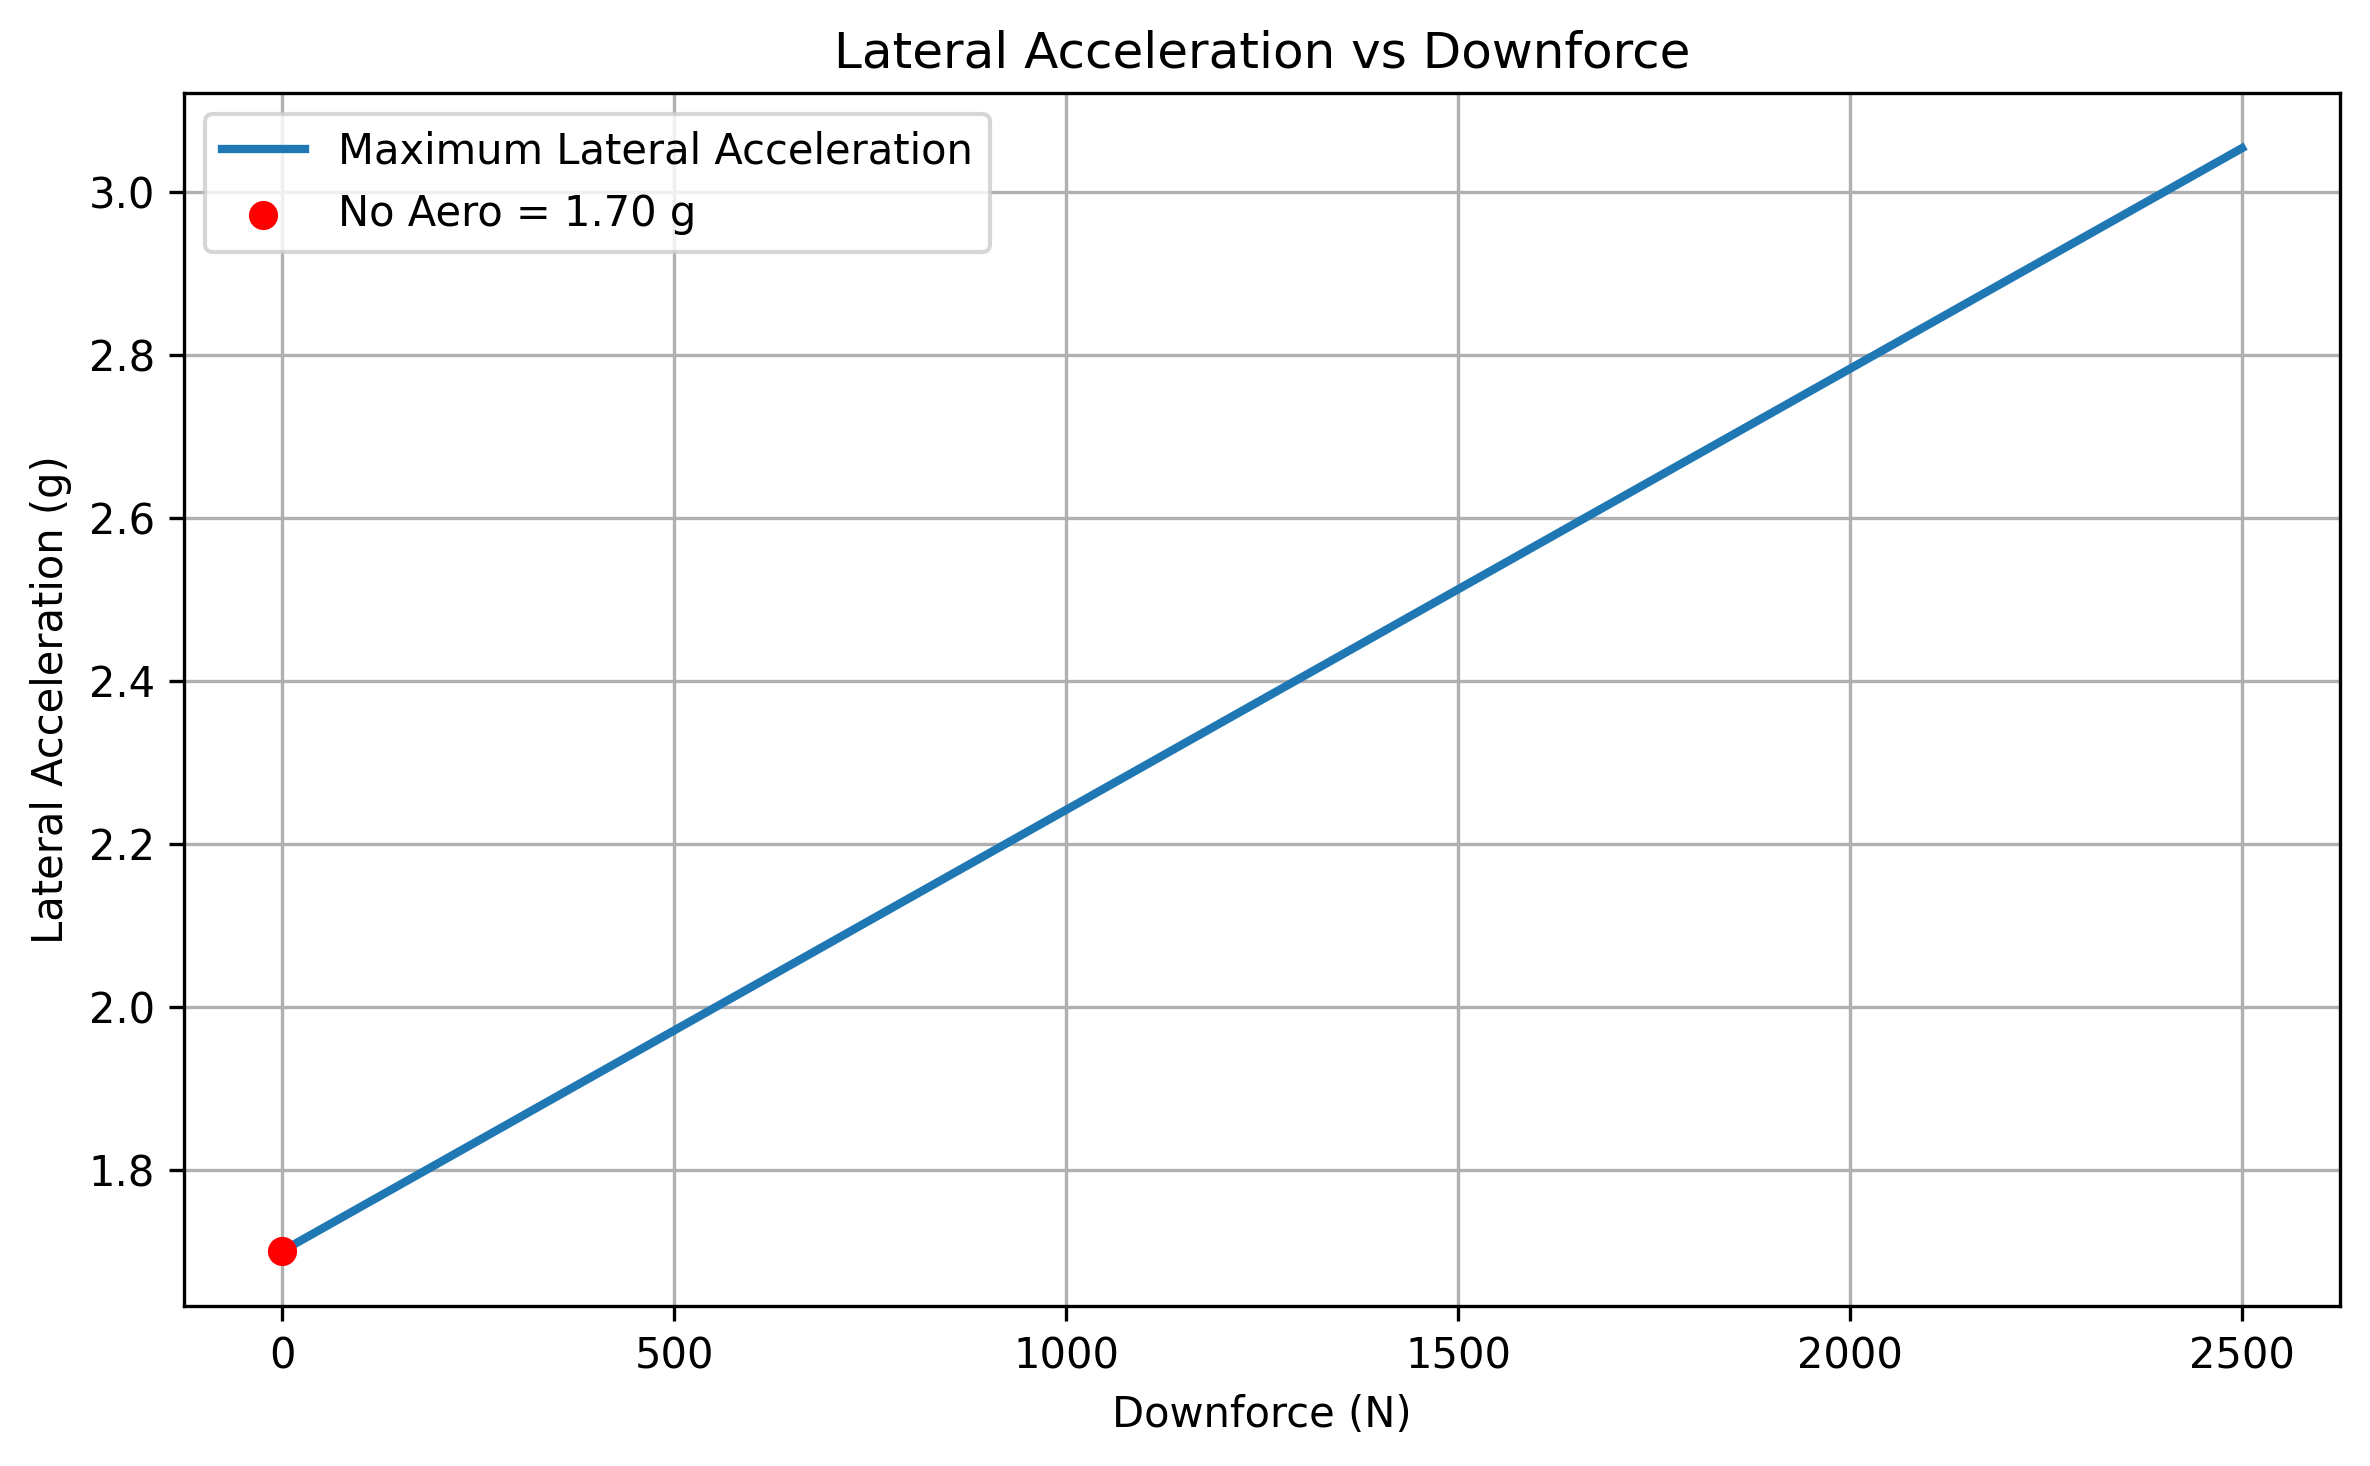
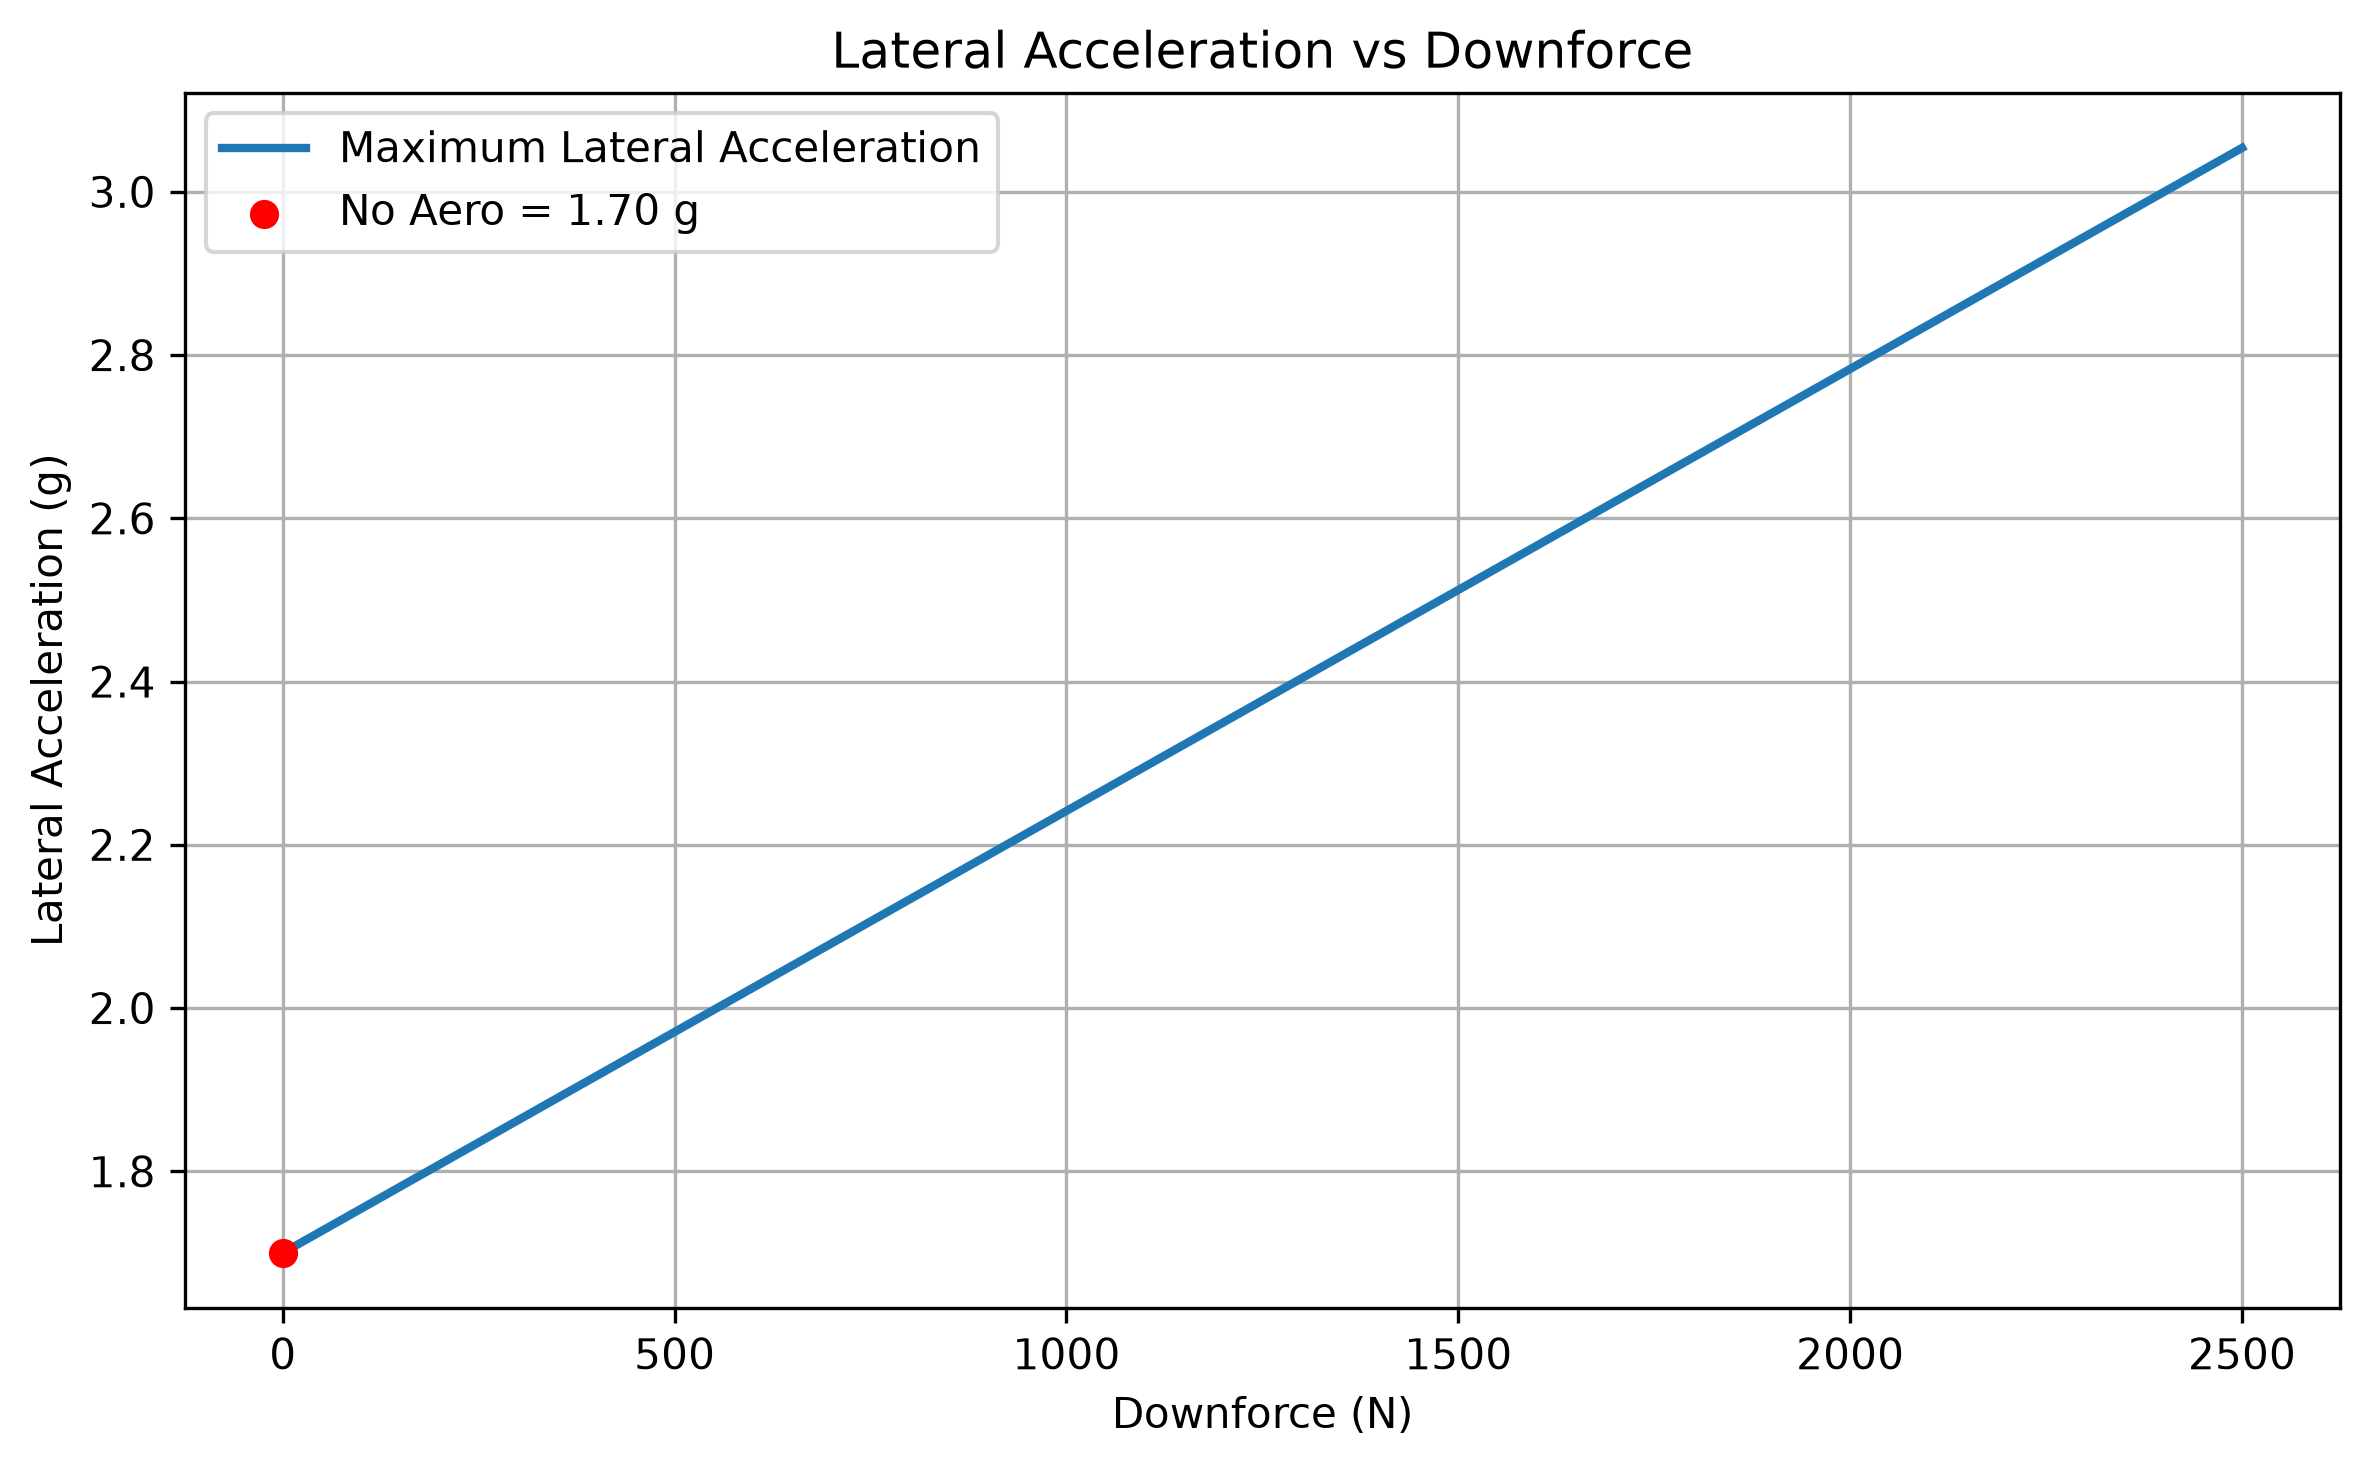
add tender

diff --git a/open/tender/tender/tender.py b/open/tender/tender/tender.py
@@ -1,30 +1,40 @@
 import numpy as np
 import matplotlib.pyplot as plt
+from pathlib import Path
+import sys
 import pandas as pd
+from scipy.optimize import root
+
+sys.path.append(str(Path(__file__).resolve().parent.parent.parent))
+
+from load_data import ParameterLoader
+
+param = ParameterLoader().load("data.xlsx")
+
 # ==========================================
 # 1. 車輛與懸吊參數設定 (依據你的描述設定)
 # ==========================================
-m_car = 320.0             # 車重 (kg)
+m_car = param.m            # 車重 (kg)
 g = 9.81                  # 重力加速度 (m/s^2)
-W_total = m_car * g       # 總車重 (N) ~ 3139.2 N
+W_total = m_car * g       # 總車重 (N)
 
 # Heave 剛性設定 (N/mm)
-k_main_heave = 140000/1000    # Main Heave 剛性
-k_tender_heave = 0.7 * k_main_heave # Tender Heave 剛性
+k_main_heave = param.K_heave_main/1000    # Main Heave 剛性
+tender_rate = param.tender_rate
+k_tender_heave = tender_rate * k_main_heave # Tender Heave 剛性
 
 # 串聯後 Heave 初段總剛性 (N/mm)
-k_total_heave = (k_main_heave * k_tender_heave) / (k_main_heave + k_tender_heave) # ~26.667 N/mm
+k_total_heave = (k_main_heave * k_tender_heave) / (k_main_heave + k_tender_heave) # N/mm
 
 # 車輛幾何參數 (用於 Pitch 計算)
-wheelbase = 1.530         # 軸距 L (m)
-h_cg = 0.30              # 重心高度 (m)
-front_weight_dist = 0.5  # 前軸重分配比例 (45%)
-anti_dive = 0.0          # 抗俯仰幾何比例 (20% 抗俯仰)
-
+wheelbase = param.L         # 軸距 L (m)
+h_cg = param.h_cog              # 重心高度 (m)
+front_weight_dist = param.lr/param.L  # 前軸重分配比例
+anti_dive = param.anti          # 抗俯仰幾何比
 # ==========================================
 # 計算 10% 空力下壓力量吃掉的總行程
 # ==========================================
-downforce_10pct = 0.1 * W_total # 10% 車重下壓力 (N)
+downforce_10pct = param.cp_k * W_total # 10% 車重下壓力 (N)
 
 # 此時 Tender 未壓滿，使用串聯總剛性 k_total_heave
 heave_stroke_10pct = downforce_10pct / k_total_heave
@@ -105,9 +115,6 @@ def series_force(x, k_main, k_tender, tender_max_stroke):
 
     return F, status
 
-from scipy.optimize import root
-
-
 def suspension_equilibrium(
     downforce,
     ax
@@ -164,7 +171,6 @@ def suspension_equilibrium(
 
 
     return xf,xr
-
 
 def calculate_heave_and_pitch(downforce_N, a_x_g):
 
@@ -241,7 +247,8 @@ def calculate_heave_and_pitch(downforce_N, a_x_g):
 
 
     if not sol.success:
-        print("Solver failed")
+        pass
+        #print("Solver failed")
 
 
     front_stroke, rear_stroke = sol.x
@@ -419,6 +426,14 @@ ax.grid(True)
 ax.legend(title="Downforce")
 
 plt.tight_layout()
+
+save_path_1 = Path(__file__).parent / "tender_heave_pitch_response.png"
+plt.savefig(
+    save_path_1,
+    dpi=300,
+    bbox_inches="tight"
+)
+
 plt.show()
 
 # ==========================================
@@ -452,4 +467,15 @@ plt.grid(True)
 plt.legend(title="Downforce")
 
 plt.tight_layout()
+
+save_path_2 = Path(__file__).parent / "tender_pitch_gradient.png"
+plt.savefig(
+    save_path_2,
+    dpi=300,
+    bbox_inches="tight"
+)
+
 plt.show()
+
+print(f"Figure saved to: {save_path_1}")
+print(f"Figure saved to: {save_path_2}")

diff --git a/open/tender/2_spring/2_spring.py b/open/tender/2_spring/2_spring.py
@@ -1,10 +1,18 @@
 import numpy as np
 import matplotlib.pyplot as plt
+from pathlib import Path
+import sys
+
+sys.path.append(str(Path(__file__).resolve().parent.parent.parent))
+
+from load_data import ParameterLoader
+
+param = ParameterLoader().load("data.xlsx")
 
 # ==========================
 # Main Spring
 # ==========================
-k_main = 30000  # N/m
+k_main = param.Ks  # N/m
 
 # Tender = 30~70% of Main
 ratio = np.linspace(0.3, 0.7, 100)
@@ -23,6 +31,14 @@ plt.xlabel("Tender Spring Stiffness (N/mm)")
 plt.ylabel("Equivalent Stiffness (N/mm)")
 plt.title("Series Spring Equivalent Stiffness")
 plt.grid(True)
+plt.tight_layout()
+
+save_path_1 = Path(__file__).parent / "series_spring_equivalent_stiffness.png"
+plt.savefig(
+    save_path_1,
+    dpi=300,
+    bbox_inches="tight"
+)
 
 # ==========================
 # Plot 2
@@ -34,5 +50,16 @@ plt.xlabel("Tender Stiffness (% of Main)")
 plt.ylabel("Equivalent Stiffness (% of Main)")
 plt.title("Equivalent Stiffness Ratio")
 plt.grid(True)
+plt.tight_layout()
+
+save_path_2 = Path(__file__).parent / "equivalent_stiffness_ratio.png"
+plt.savefig(
+    save_path_2,
+    dpi=300,
+    bbox_inches="tight"
+)
+
+print(f"Figure saved to: {save_path_1}")
+print(f"Figure saved to: {save_path_2}")
 
 plt.show()

diff --git a/open/tender/tender.md b/open/tender/tender.md
@@ -4,22 +4,15 @@ layout: base
 
 # Tender Spring 分析
 
-## 設計背景
-
-目前彈簧姿態限制以 $roll = 2^\circ$、$pitch = 1.5^\circ$ 作為設計目標，但其中約 $0.5^\circ$ roll 與 $0.35^\circ$ pitch 會由輪胎變形提供，因此實際由懸吊壓縮造成的姿態角不需要吃完整個角度需求。若將總行程完全用於姿態變化，最大約可造成 $2.26^\circ$ roll 或 $1.87^\circ$ pitch；也就是說在不考慮空力下壓的情況下，目前允許的極限 full roll / full pitch 約使用總行程的 $60\%$。
-
-由於輪胎剛性會與懸吊剛性串聯，實際 ride stiffness 會低於單純彈簧剛性，因此彈簧本體剛性必須比姿態限制直接推得的值更高。同時仍需確認簧上與簧下自然頻率之間保有足夠間隔，可避免輪胎 hop mode 與車身模態過度接近。
-
 ## [雙彈簧串聯剛性分析](2_spring/2_spring.md)
 
 > 計算 main spring 與 tender spring 串聯後的等效剛性，並觀察 tender 剛性比例對初段總剛性的影響。
 
-此分析用於建立 tender spring 選型的基本概念。當 tender spring 與 main spring 串聯時，初段等效剛性會低於任一單獨彈簧剛性，因此 tender 的剛性比例會直接影響懸吊初段支撐、低載荷行程與彈簧切換前的車身姿態。以目前偏保守的設定來看，tender spring 採用 main spring 的 $70\%$ 剛性時，串聯後 heave 剛性約為原 main spring 的 $40\%$，因此剛性切換前後會有明顯差距。
-
+建立 tender spring 選型的基本概念。當 tender spring 與 main spring 串聯時，初段等效剛性會低於任一單獨彈簧剛性，因此 tender 的剛性比例會直接影響懸吊初段支撐、低載荷行程與彈簧切換前的車身姿態。
 ## [Tender Heave 與 Pitch 行程分析](tender/tender.md)
 
 > 建立 tender + main spring 的分段剛性模型，估算不同下壓力與煞車加速度下的前後行程、heave 與 pitch 角。
 
-此工具將 tender 彈簧壓縮到底前的串聯剛性，以及 tender bind 後只剩 main spring 的分段特性納入計算。透過掃描空力下壓力比例與煞車加速度，可以觀察懸吊行程是否過早吃完、pitch 姿態是否過大，以及 tender 設定對空力平台穩定性的影響。
+將 tender 彈簧壓縮到底前的串聯剛性，以及 tender bind 後只剩 main spring 的分段特性納入計算。透過掃描空力下壓力比例與煞車加速度，可以觀察懸吊行程是否過早吃完、pitch 姿態是否過大，以及 tender 設定對空力平台穩定性的影響。
 
-目前的設計思路偏向讓 tender 主要服務 heave，而不是直接降低所有單輪 ride rate。原因是單輪衝擊會同時受到 heave 與 roll 剛性的平均影響，但空力下壓主要作用於 heave；因此將 tender 加入 heave 可以保留低速路面吸收能力，同時避免整體單輪 ride stiffness 被過度降低。
+設計思路偏向讓 tender 服務 heave，而不是直接降低所有單輪 ride rate。原因是單輪衝擊會同時受到 heave 與 roll 剛性的平均影響，但空力下壓主要作用於 heave；因此將 tender 加入 heave 可以保留低速路面吸收能力，同時達到使用空力控制剛性的目的。

diff --git a/open/tender/2_spring/2_spring.md b/open/tender/2_spring/2_spring.md
@@ -8,7 +8,7 @@ layout: base
 
 ## 簡介
 
-本分析用於計算 main spring 與 tender spring 串聯時的等效剛性。程式固定 main spring 剛性，並讓 tender spring 剛性在 main spring 的 30% 到 70% 之間掃描，觀察 tender 選型對初段總剛性的影響。
+計算 main spring 與 tender spring 串聯時的等效剛性。程式固定 main spring 剛性，並讓 tender spring 剛性在 main spring 的 30% 到 70% 之間掃描，觀察 tender 選型對初段總剛性的影響。
 
 Tender spring 與 main spring 串聯時，等效剛性會明顯低於 main spring。本工具可用於快速評估 tender 比例是否會讓初段懸吊過軟，或是否能提供預期的低載荷 compliance。
 
@@ -47,15 +47,6 @@ $$k_{eq} = \frac{k_{main} k_{tender}}{k_{main} + k_{tender}}$$
 
 $$\frac{k_{eq}}{k_{main}} \times 100\%$$
 
-### 3. 設計策略
-
-Tender spring 的切換點可依照車輛需求分成三種策略：
-
-1. **常態作法**：車重下壓後就幾乎切換至 main spring，tender 主要用於吸收低速路面震動。
-2. **平衡作法**：在工作行程約一半處切換，平衡路面吸收與空力平台控制。
-3. **空力作法**：高下壓或大姿態變化時才切換，讓高速時具備更高 heave 剛性與防觸底能力。
-
-不論採用哪一種策略，因為 tender 與 main spring 串聯的物理機制，切換前後通常會產生兩倍以上的剛性差距。因此切換點不只影響行程使用量，也會影響車手對車輛支撐性的感受。
 
 ## 結果
 
@@ -63,5 +54,13 @@ Tender spring 的切換點可依照車輛需求分成三種策略：
 
 1. Tender spring 剛性與串聯等效剛性的關係。
 2. Tender 剛性比例與等效剛性比例的關係。
+
+<div style="text-align: center;">
+<img src="series_spring_equivalent_stiffness.png" alt="series_spring_equivalent_stiffness" width="800">
+</div>
+
+<div style="text-align: center;">
+<img src="equivalent_stiffness_ratio.png" alt="equivalent_stiffness_ratio" width="800">
+</div>
 
 結果可用來判斷 tender spring 若設定為 main spring 的 30% 到 70%，初段懸吊總剛性會降低到什麼程度。

diff --git a/open/tender/tender/tender.md b/open/tender/tender/tender.md
@@ -8,7 +8,7 @@ layout: base
 
 ## 簡介
 
-本分析建立 main spring 與 tender spring 串聯後的分段剛性模型，用於估算不同空力下壓力與煞車加速度下的前後懸吊行程、車輛 heave 位移與 pitch 角。Tender 在未壓到底前會與 main spring 串聯，使初段剛性降低；當 tender bind 後，系統則切換為 main spring 主導。
+建立 main spring 與 tender spring 串聯後的分段剛性模型，用於估算不同空力下壓力與煞車加速度下的前後懸吊行程、車輛 heave 位移與 pitch 角。Tender 在未壓到底前會與 main spring 串聯，使初段剛性降低；當 tender bind 後，系統則切換為 main spring 主導。
 
 此工具適合用於評估 tender spring 是否會在空力下壓力或煞車負載轉移下過早壓滿，以及切換到 main spring 後是否造成 heave / pitch 梯度突變。對於需要穩定空力平台的車輛，這類分析可作為 tender 行程與剛性選型的初步依據。
 
@@ -99,4 +99,12 @@ $$\frac{d\theta}{da_x}$$
 1. 前懸吊行程、後懸吊行程、整車 heave 與 pitch 角，並比較不同下壓力比例下隨煞車加速度變化的趨勢。
 2. Pitch gradient 對煞車加速度的關係，用於觀察 tender bind 前後是否造成 pitch 響應斜率改變。
 
-結果可用來檢查 tender 設定是否在目標下壓力或煞車狀態下過早壓滿，也可評估懸吊平台在空力負載與縱向負載轉移下是否維持穩定。由於程式目前未儲存圖片檔，若需要將結果放入文件頁面，可先輸出圖檔後再於此段落加入置中圖片。
+<div style="text-align: center;">
+<img src="tender_heave_pitch_response.png" alt="tender_heave_pitch_response" width="800">
+</div>
+
+<div style="text-align: center;">
+<img src="tender_pitch_gradient.png" alt="tender_pitch_gradient" width="800">
+</div>
+
+結果可用來檢查 tender 設定是否在目標下壓力或煞車狀態下過早壓滿，也可評估懸吊平台在空力負載與縱向負載轉移下是否維持穩定。

diff --git a/README.md b/README.md
@@ -21,7 +21,7 @@
 
 [阻尼評估](open/damping/damping.md) : 阻尼分析
 
-[tender彈簧分析]() : 快好了等等我
+[tender彈簧分析](open/tender/tender.md) : tender 彈簧評估
 
 ## 煞車與傳動加速
 
